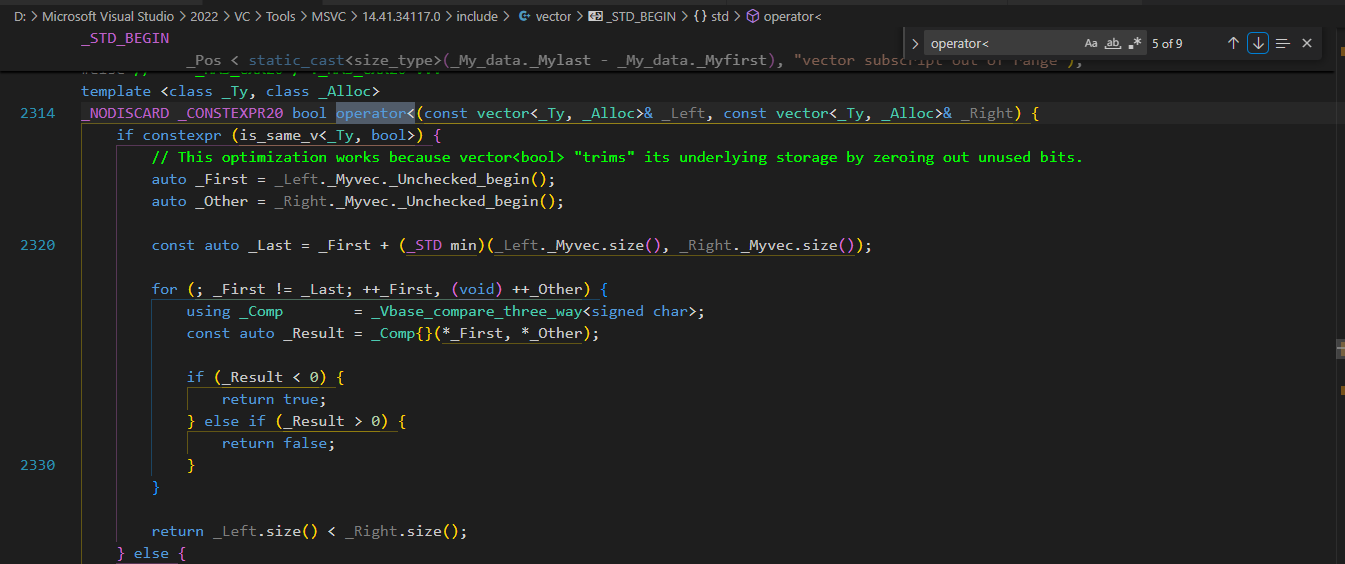
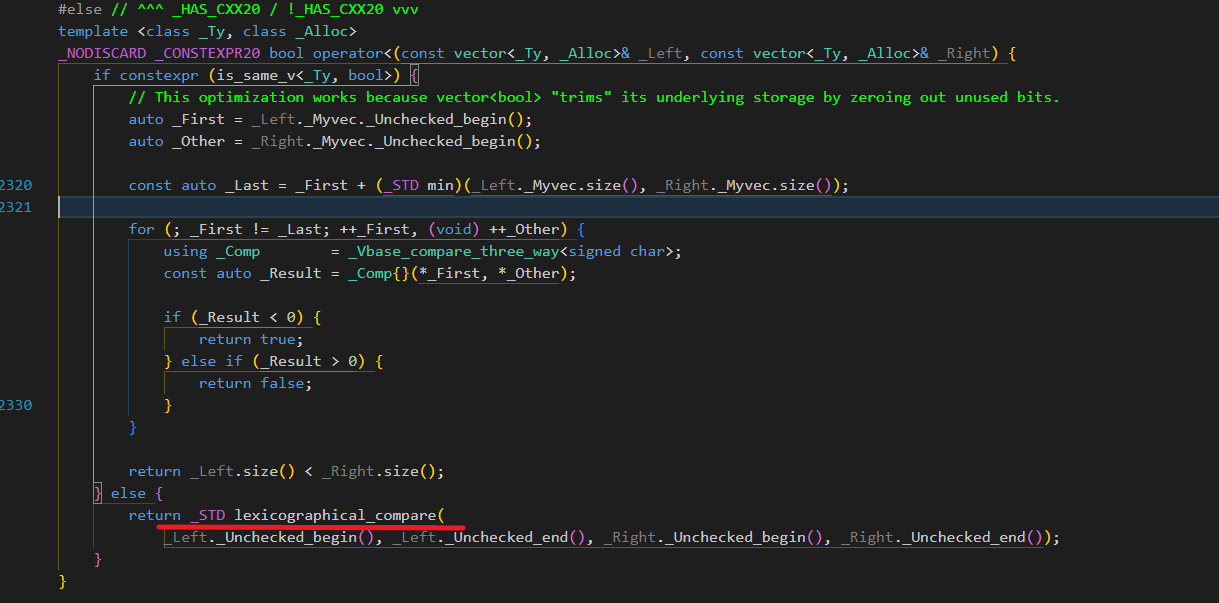
attach 补充56.

diff --git a/source/_posts/computer/algo/56. 合并区间.md b/source/_posts/computer/algo/56. 合并区间.md
@@ -23,9 +23,10 @@ timeline: code
 
 而在`<vector>`中已经重载了`<`,如下
 ![](/picture/Snipaste_2025-03-03_22-10-40.png)
-这里的意思是和字符串按字典序比较的思想一样，第一个相等则顺位比较第二个
+第一个if内容我们不用管，是实现特殊存在按位存的`vector<bool>`比较的。
+看else,这里就是调用`lexicographical_compare`,和字符串按字典序比较的思想一样，默认比较容器里第一个元素，第一个相等则顺位比较第二个
 
-那么我们就可以用std::sort来轻松解决这道题了
+那么我们就可以用`std::sort`来轻松解决这道题了
 
 ```C++
 //! nlogn,n -> 排序std::sort耗时nlogn；除返回值占地外，std::sort函数递归栈占地log(n)
